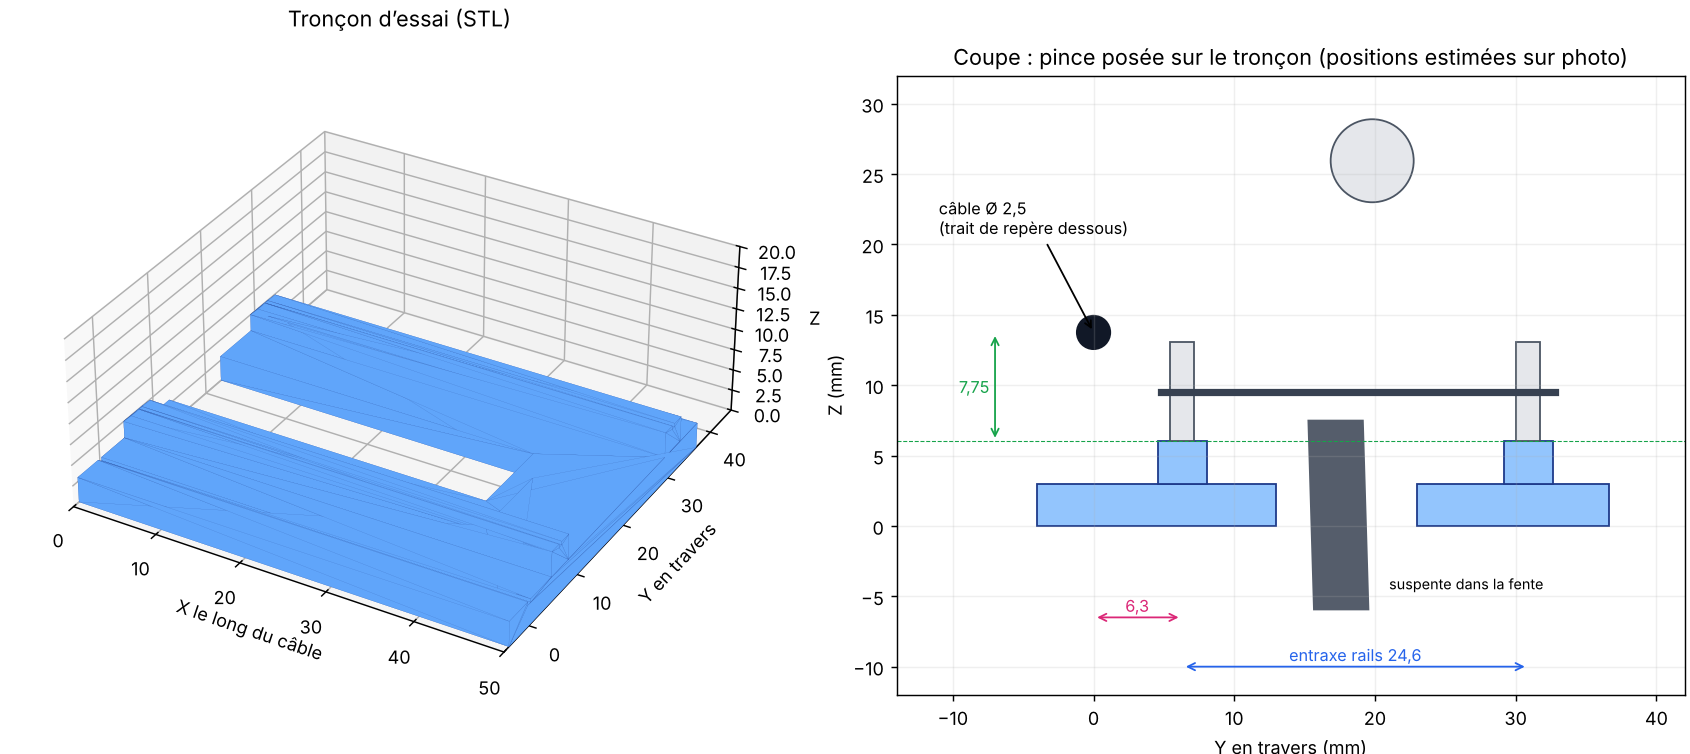
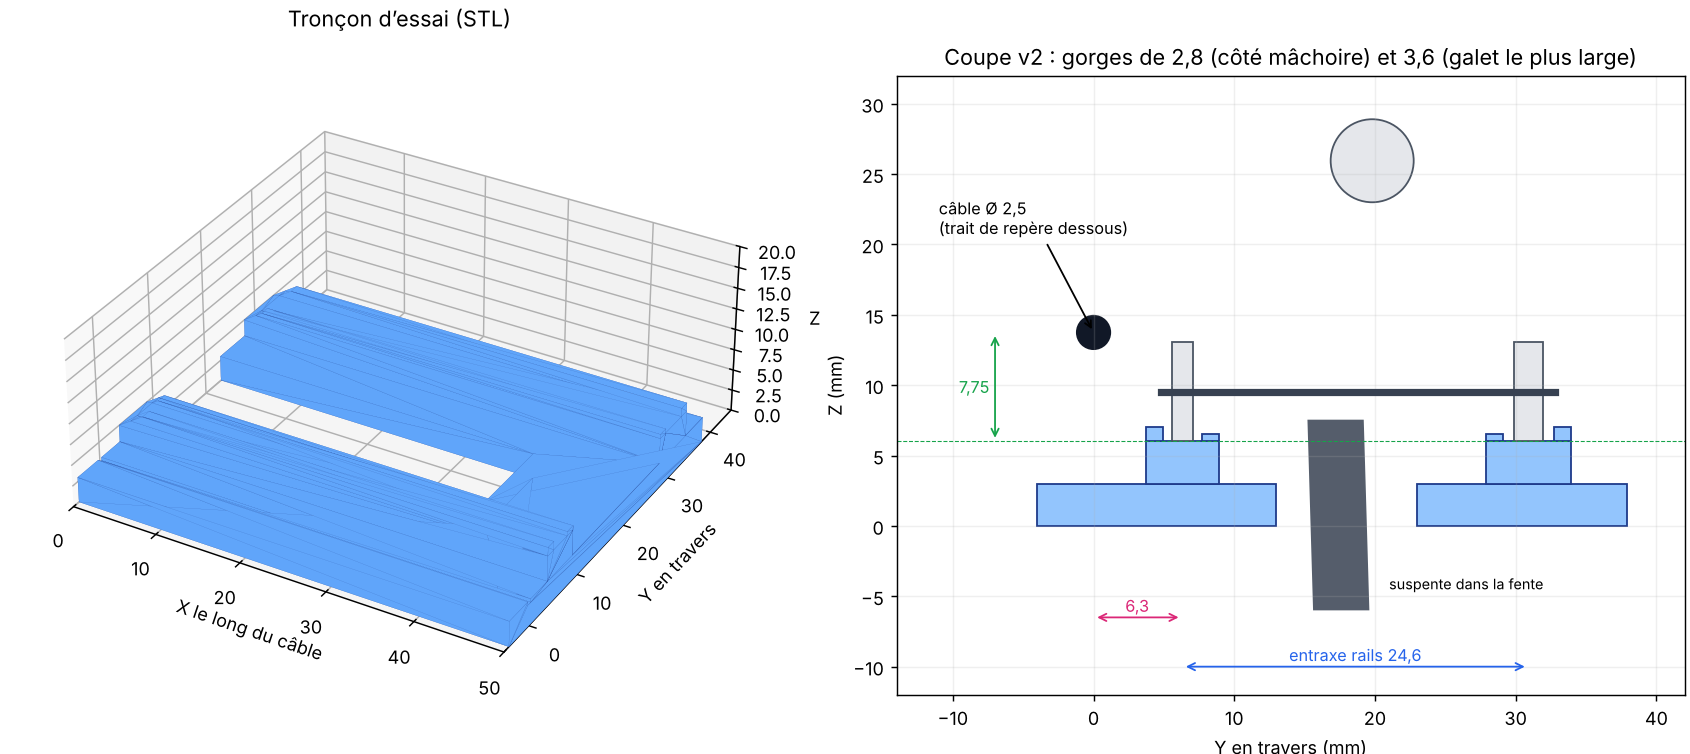
Rail d'essai v2 : gorges pour les galets, plus large pour le gros galet
Retour de l'essai v1 : écart des rails de 24,6 mm parfait, mais les
traits de 0,6 mm sur les rails étaient beaucoup trop petits. Les traits
deviennent des gorges de 2,8 mm côté mâchoire et 3,6 mm pour le galet le
plus large (côté opposé), fond de gorge à la hauteur de la v1. Bord
extérieur de 1,0 mm, bord intérieur de 0,5 mm pour laisser passer le
corps de la pince, rampe d'entrée. Notice mise à jour.

Claude-Session: https://claude.ai/code/session_01Y9DV7HkqTCheu9GDiPVfSd

diff --git a/essai_rail_2026-10-22/generer_rail_essai.py b/essai_rail_2026-10-22/generer_rail_essai.py
@@ -3,6 +3,8 @@
 Toutes les cotes viennent de mesures_photo_2026-10-22/ (estimations photo).
 Modifier COTES puis relancer : python essai_rail_2026-10-22/generer_rail_essai.py
 Repere du STL : X le long du cable, Y en travers (cable a Y = 0), Z vers le haut.
+v1 : ecart des galets et position du cable valides par l'essai (22/10).
+v2 : les traits des rails deviennent des gorges ou roulent les galets.
 """
 from pathlib import Path
 import json
@@ -10,22 +12,27 @@ import manifold3d as mf
 import trimesh
 
 BASE = Path(__file__).resolve().parent
+VERSION = 'v2'
 
 COTES = dict(
     longueur=50.0,              # le long du cable
     epaisseur_plaque=3.0,
-    hauteur_rail=3.0,           # dessus de plaque -> dessus de rail
-    largeur_rail=3.5,           # galet de 1,5 a 2,1 mm : marge de part et d'autre
+    hauteur_rail=3.0,           # dessus de plaque -> fond de gorge (surface de roulement)
+    gorge=dict(largeur_machoire=2.8,  # galet cote machoire, environ 1,5 mm sur photo
+               largeur_oppose=3.6,    # galet oppose, le plus large : environ 2,1 mm sur photo
+               bord=1.2,        # epaisseur de chaque bord
+               bord_exterieur=1.0,
+               bord_interieur=0.5),  # bas : le corps de la pince passe a moins d'1 mm cote machoire
     galet_machoire_y=6.3,       # centre du galet cote machoire depuis l'axe du cable
     entraxe_galets=24.6,
-    cable_au_dessus_rail=7.75,  # 4,2 (cable -> axe des galets) + 3,55 (rayon galet 7,1)
+    cable_au_dessus_rail=7.75,  # fond de gorge -> cable : 4,2 + 3,55 (rayon galet 7,1)
     fente_suspente_y=18.0,      # axe de la suspente a hauteur de plaque
     fente_suspente_largeur=10.0,
     fente_suspente_longueur=38.0,
     plaque_y_min=-4.0,          # depasse sous le cable pour porter le trait de repere
     plaque_y_marge=4.0,         # au-dela du rail oppose
-    chanfrein_entree=1.0,
-    rainure=dict(largeur=0.6, profondeur=0.4),
+    rampe_entree=dict(profondeur=1.0, longueur=3.0),
+    rainure=dict(largeur=0.6, profondeur=0.4),   # trait de repere du cable sur la plaque
 )
 
 
@@ -33,22 +40,30 @@ def boite(x0, y0, z0, x1, y1, z1):
     return mf.Manifold.cube([x1 - x0, y1 - y0, z1 - z0]).translate([x0, y0, z0])
 
 
+def rails(c):
+    """(centre Y, largeur de gorge, cote exterieur) : rail cote machoire puis rail oppose."""
+    y1, g = c['galet_machoire_y'], c['gorge']
+    return ((y1, g['largeur_machoire'], -1), (y1 + c['entraxe_galets'], g['largeur_oppose'], 1))
+
+
 def rail_essai(c):
-    L, e, h, w = c['longueur'], c['epaisseur_plaque'], c['hauteur_rail'], c['largeur_rail']
-    y1 = c['galet_machoire_y']
-    y2 = y1 + c['entraxe_galets']
-    ymax = y2 + w / 2 + c['plaque_y_marge']
+    L, e, h, g = c['longueur'], c['epaisseur_plaque'], c['hauteur_rail'], c['gorge']
+    (y1, _, _), (y2, lg2, _) = rails(c)
+    ymax = y2 + lg2 / 2 + g['bord'] + c['plaque_y_marge']
     piece = boite(0, c['plaque_y_min'], 0, L, ymax, e)
-    for yr in (y1, y2):
-        rail = boite(0, yr - w / 2, e - 0.01, L, yr + w / 2, e + h)
-        # chanfrein d'entree sur le dessus du rail, cote ouvert (X = 0)
-        ch, top = c['chanfrein_entree'], e + h
-        tri = mf.CrossSection([[(-0.01, top - ch), (ch, top + 0.01), (-0.01, top + 0.01)]])
+    top = e + h
+    for yr, lg, cote_ext in rails(c):
+        w = lg + 2 * g['bord']
+        rail = boite(0, yr - w / 2, e - 0.01, L, yr + w / 2, top)
+        for cote, haut in ((cote_ext, g['bord_exterieur']), (-cote_ext, g['bord_interieur'])):
+            y_in, y_out = yr + cote * lg / 2, yr + cote * w / 2
+            rail = rail + boite(0, min(y_in, y_out), top - 0.01, L, max(y_in, y_out), top + haut)
+        # rampe d'entree cote ouvert (X = 0) : fond de gorge et bords
+        r = c['rampe_entree']
+        z_haut = top + max(g['bord_exterieur'], g['bord_interieur'])
+        tri = mf.CrossSection([[(-0.01, top - r['profondeur']), (r['longueur'], z_haut + 0.01), (-0.01, z_haut + 0.01)]])
         coin = mf.Manifold.extrude(tri, w + 2).rotate([90, 0, 0]).translate([0, yr + w / 2 + 1, 0])
         piece = piece + rail - coin
-        # trait du centre theorique du galet sur le dessus du rail
-        r = c['rainure']
-        piece = piece - boite(-1, yr - r['largeur'] / 2, e + h - r['profondeur'], L + 1, yr + r['largeur'] / 2, e + h + 1)
     # fente de la suspente, ouverte cote X = 0
     ys, ws = c['fente_suspente_y'], c['fente_suspente_largeur']
     piece = piece - boite(-1, ys - ws / 2, -1, c['fente_suspente_longueur'], ys + ws / 2, e + 1)
@@ -74,16 +89,20 @@ def apercu(m, info, c, chemin):
     ax.set_box_aspect([50, 50, 20]); ax.view_init(elev=32, azim=-60)
     ax.set_title('Tronçon d’essai (STL)')
     bx = fig.add_subplot(1, 2, 2)
-    e, h = c['epaisseur_plaque'], c['hauteur_rail']
-    yb0, yb1 = c['plaque_y_min'], info['rail_oppose_y'] + c['largeur_rail'] / 2 + c['plaque_y_marge']
+    e, h, g = c['epaisseur_plaque'], c['hauteur_rail'], c['gorge']
+    yb0, yb1 = c['plaque_y_min'], info['rail_oppose_y'] + g['largeur_oppose'] / 2 + g['bord'] + c['plaque_y_marge']
     ys, ws = c['fente_suspente_y'], c['fente_suspente_largeur']
     bx.add_patch(Rectangle((yb0, 0), ys - ws / 2 - yb0, e, fc='#93c5fd', ec='#1e3a8a'))
     bx.add_patch(Rectangle((ys + ws / 2, 0), yb1 - ys - ws / 2, e, fc='#93c5fd', ec='#1e3a8a'))
-    for yr in (info['rail_machoire_y'], info['rail_oppose_y']):
-        bx.add_patch(Rectangle((yr - c['largeur_rail'] / 2, e), c['largeur_rail'], h, fc='#93c5fd', ec='#1e3a8a'))
+    for yr, lg, cote_ext in rails(c):
+        w = lg + 2 * g['bord']
+        bx.add_patch(Rectangle((yr - w / 2, e), w, h, fc='#93c5fd', ec='#1e3a8a'))
+        for cote, haut in ((cote_ext, g['bord_exterieur']), (-cote_ext, g['bord_interieur'])):
+            y0 = min(yr + cote * lg / 2, yr + cote * w / 2)
+            bx.add_patch(Rectangle((y0, e + h), g['bord'], haut, fc='#93c5fd', ec='#1e3a8a'))
     zc = info['cable_z']; za = zc - 4.2
-    for yr in (info['rail_machoire_y'], info['rail_oppose_y']):
-        bx.add_patch(Rectangle((yr - 0.85, za - 3.55), 1.7, 7.1, fc='#e5e7eb', ec='#4b5563'))
+    for yr, lw in ((info['rail_machoire_y'], 1.5), (info['rail_oppose_y'], 2.1)):
+        bx.add_patch(Rectangle((yr - lw / 2, za - 3.55), lw, 7.1, fc='#e5e7eb', ec='#4b5563'))
     bx.plot([4.8, 32.8], [za, za], color='#374151', lw=4)
     bx.add_patch(Circle((0, zc), 1.25, fc='#111827'))
     bx.add_patch(Circle((19.8, zc + 12.2), 2.95, fc='#e5e7eb', ec='#4b5563'))
@@ -98,7 +117,7 @@ def apercu(m, info, c, chemin):
     bx.text(3.1, -6.1, f"{c['galet_machoire_y']:.1f}".replace('.', ','), ha='center', color='#db2777', fontsize=9)
     bx.text(21, -4.5, 'suspente dans la fente', ha='left', fontsize=8)
     bx.set(xlim=(-14, 42), ylim=(-12, 32), aspect='equal', xlabel='Y en travers (mm)', ylabel='Z (mm)')
-    bx.set_title('Coupe : pince posée sur le tronçon (positions estimées sur photo)')
+    bx.set_title(f'Coupe {VERSION} : gorges de 2,8 (côté mâchoire) et 3,6 (galet le plus large)')
     bx.grid(alpha=0.2)
     fig.savefig(chemin, dpi=130)
     plt.close(fig)
@@ -109,16 +128,16 @@ def main():
     t = m.to_mesh()
     mesh = trimesh.Trimesh(vertices=t.vert_properties[:, :3], faces=t.tri_verts, process=True)
     assert mesh.is_watertight and mesh.volume > 0 and len(mesh.split()) == 1
-    mesh.export(BASE / 'Rail_essai_JC.stl')
+    mesh.export(BASE / f'Rail_essai_JC_{VERSION}.stl')
     apercu(mesh, info, COTES, BASE / 'apercu_rail_essai.png')
     (BASE / 'rail_essai.json').write_text(json.dumps(dict(
-        cotes=COTES, positions={k: (round(v, 2) if isinstance(v, float) else [round(x, 2) for x in v])
+        version=VERSION, cotes=COTES, positions={k: (round(v, 2) if isinstance(v, float) else [round(x, 2) for x in v])
                                 for k, v in info.items()},
         volume_mm3=round(float(mesh.volume), 1),
         dimensions_mm=[round(float(v), 2) for v in mesh.extents],
-        statut='Piece d essai ; cotes issues de photos, a valider avec la vraie pince'),
+        statut='Piece d essai ; ecart des galets valide par l essai v1, gorges a essayer'),
         ensure_ascii=False, indent=2) + '\n', encoding='utf-8')
-    print('Rail_essai_JC.stl :', [round(float(v), 2) for v in mesh.extents], 'mm,', round(float(mesh.volume)), 'mm3')
+    print(f'Rail_essai_JC_{VERSION}.stl :', [round(float(v), 2) for v in mesh.extents], 'mm,', round(float(mesh.volume)), 'mm3')
 
 
 if __name__ == '__main__':
